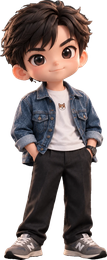
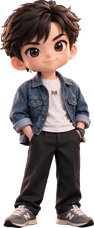
docs: Refresh About Me, add Alan Kay quote and white snake
- Rewrite About Me as four short lines about the path from
  mechanical engineering to leading the IoT and Multi-Agent System team
- Lead Release notes with Alan Kay's "invent the future" quote
- Size both figures to 114px and center them in their sections;
  taller tag images so Current release matches the figure
- Shorter typing line to remove the gap below it
- White snake on teal squares for dark mode

diff --git a/README.md b/README.md
@@ -2,15 +2,18 @@
 
 # Saharat Plypech `v1.1.5`
 
-<img align="right" height="120" src="assets/figures/work.png" alt="Saharat at work in a suit, holding a Better Ideas Bigger Impact mug">
+<img align="right" height="135" src="assets/figures/work.png" alt="Saharat at work in a suit, holding a Better Ideas Bigger Impact mug">
 
-<a href="https://github.com/Saharatjj"><img src="https://readme-typing-svg.demolab.com?font=JetBrains+Mono&size=18&pause=1200&color=2DD4BF&vCenter=true&width=460&lines=IoT+Developer+%C2%B7+Multi-Agent+System+Lead" alt="IoT Developer · Multi-Agent System Lead"></a>
+<a href="https://github.com/Saharatjj"><img src="https://readme-typing-svg.demolab.com?font=JetBrains+Mono&size=18&pause=1200&color=2DD4BF&vCenter=true&width=460&height=30&lines=IoT+Developer+%C2%B7+Multi-Agent+System+Lead" alt="IoT Developer · Multi-Agent System Lead"></a>
 
-Passionate developer who loves to create and learn new things. Currently working on projects that push the boundaries of what's possible with code.
+Mechanical engineer by degree, IoT engineer by choice.<br>
+I began at a Thai startup, building tech for people and the planet.<br>
+Today I lead the IoT and Multi-Agent System team at **AltoTech Global**.<br>
+The goal stays simple: a better world for everyone.
 
 ## Current release
 
-<img align="right" height="120" src="assets/figures/offduty.png" alt="Saharat off duty in a denim jacket"><img align="absmiddle" src="assets/tags/added.svg" alt="Added"> IoT Development and Multi-Agent System Lead at **AltoTech Global**<br>
+<img align="right" height="114" src="assets/figures/offduty.png" alt="Saharat off duty in a denim jacket"><img align="absmiddle" src="assets/tags/added.svg" alt="Added"> IoT Development and Multi-Agent System Lead at **AltoTech Global**<br>
 <img align="absmiddle" src="assets/tags/interests.svg" alt="Interests"> AI, IoT and software development<br>
 <img align="absmiddle" src="assets/tags/ongoing.svg" alt="Ongoing"> Constantly learning and exploring new technologies
 
@@ -103,7 +106,7 @@ Passionate developer who loves to create and learn new things. Currently working
 
 ## Release notes
 
-<img src="assets/release-notes.svg" alt="Never stop learning, because life never stops teaching. Let's collaborate and build something cool together.">
+<img src="assets/release-notes.svg" alt="The best way to predict the future is to invent it. (Alan Kay) Never stop learning, because life never stops teaching. Let's collaborate and build something cool together.">
 
 ## Support
 
